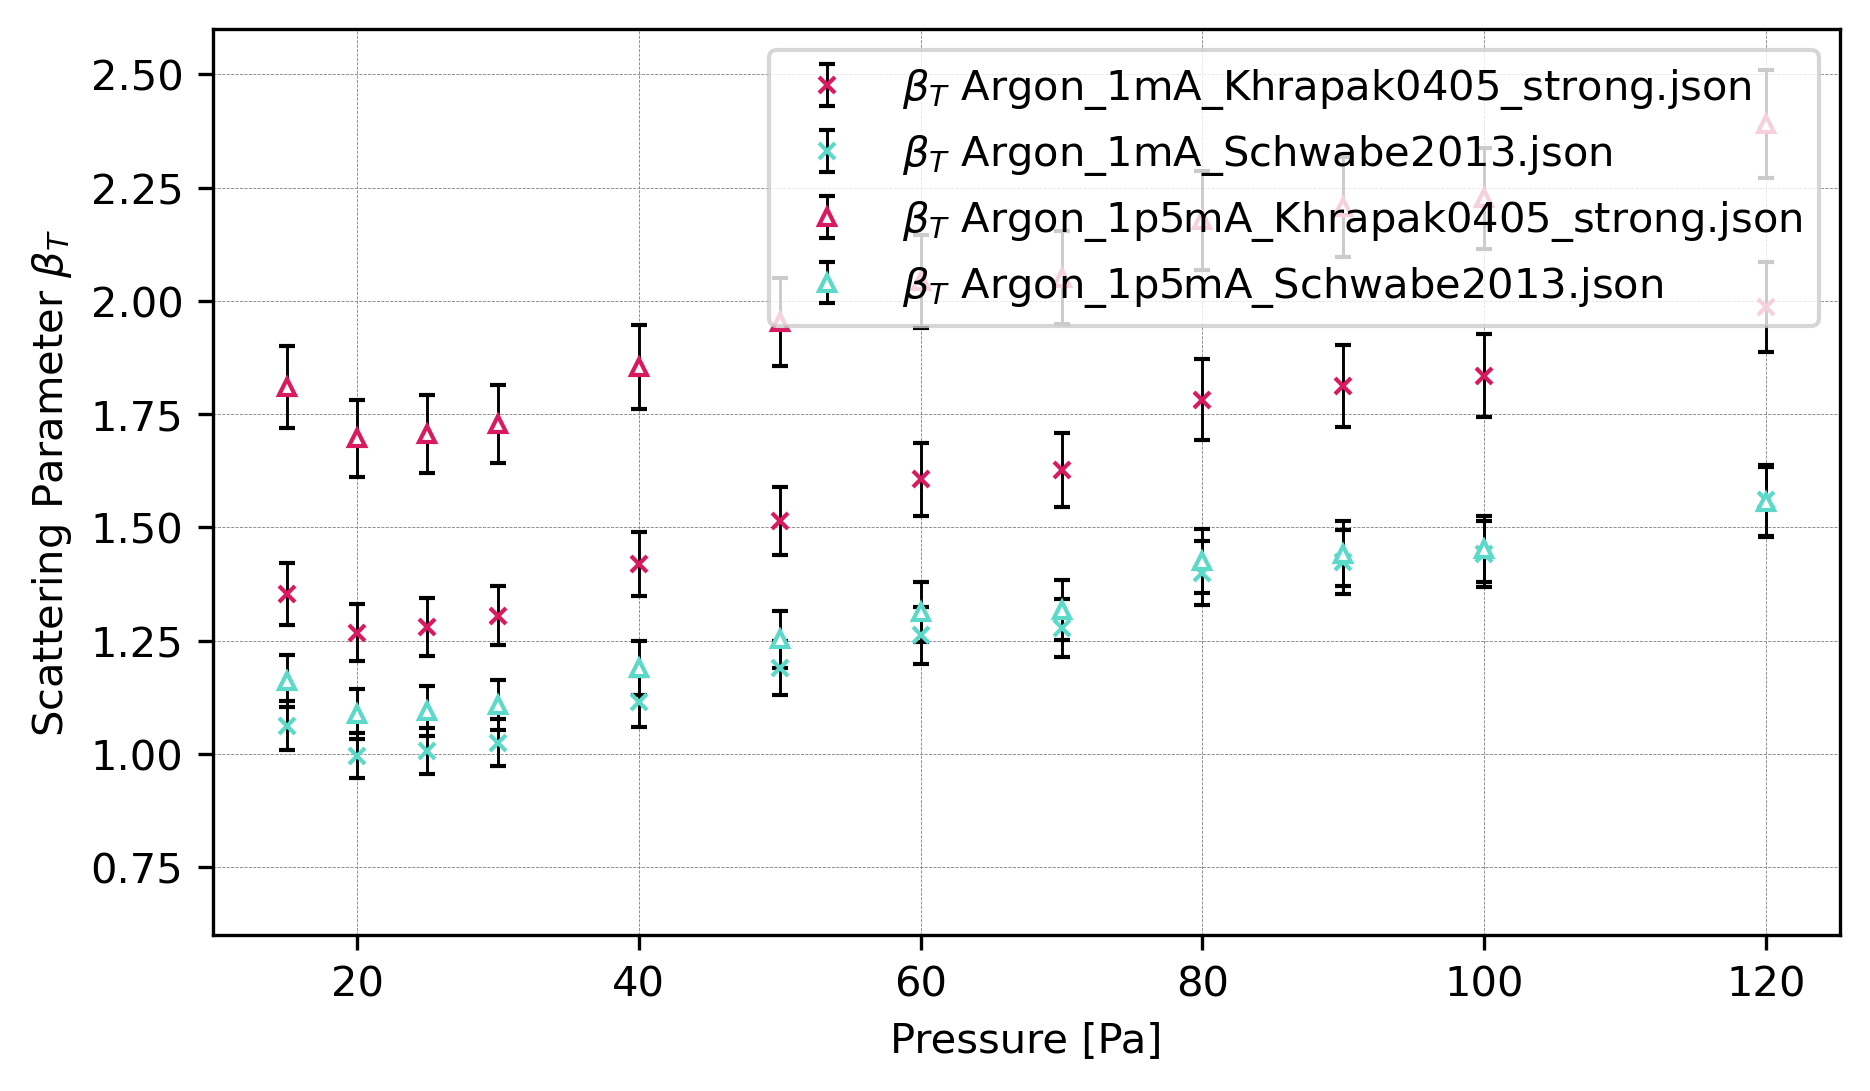
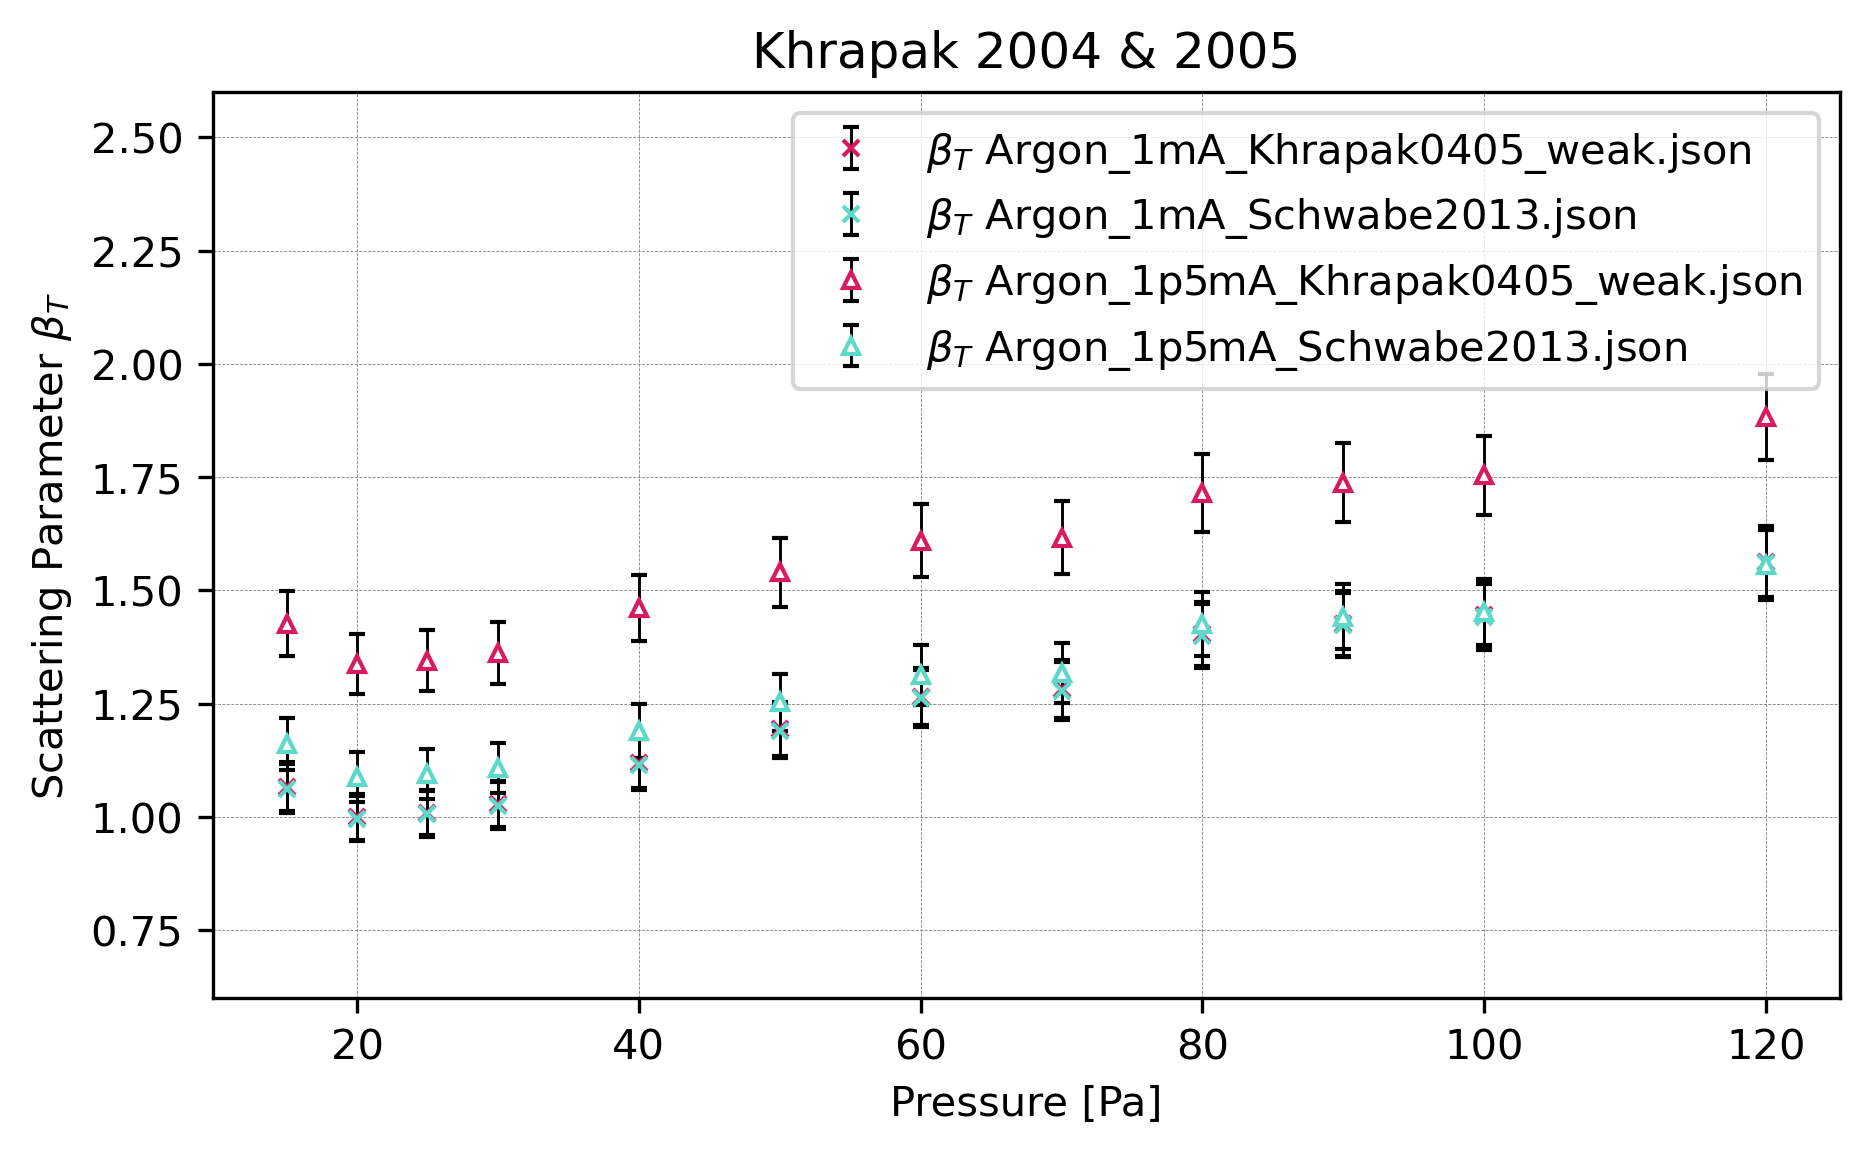
upload

diff --git a/data_eval.py b/data_eval.py
@@ -212,7 +212,10 @@ plt.xlim(0, 130)
 plt.ylim(0, 1)
 plt.show()
 #%%
-# Load JSON files
+
+# =============================================================================
+# Discharge Parameters
+# =============================================================================
 
 file_paths = [
     "json_files/theory/Argon_1mA_Khrapak0405_strong.json",
@@ -260,43 +263,58 @@ argon_df = {
 }
 
 # Plotting T_e, n_e0, and E_0 in separate subplots
-fig, axes = plt.subplots(3, 1, figsize=(12, 15), dpi=300)
+fig, axes = plt.subplots(3, 1, figsize=(9, 12), dpi=600)
 
 # Titles and y-labels for each subplot
 parameters = ["n_e0", "T_e", "E_0"]
-titles = [r"$n_{e0}$ vs Pressure", r"$T_e$ vs Pressure", r"$E_0$ vs Pressure"]
-y_labels = [r"$n_{e0}$ ($\mathrm{m^{-3}}$)", r"$T_e$ (eV)", r"$E_0$ ($\mathrm{V/m}$)"]
+titles = [r"$n_{e}$ vs Pressure", r"$T_e$ vs Pressure", r"$E_0$ vs Pressure"]
+y_labels = [r"$n_{e}$ ($\cdot 10 ^{15} \, \mathrm{m^{-3}}$)", r"$T_e$ (eV)", r"$E_0$ ($\mathrm{V/m}$)"]
 
 # Plot each parameter in a separate subplot
 for i, param in enumerate(parameters):
     ax = axes[i]
     for dataset_name, dataset in parsed_data_correct.items():
         for polarity, params in dataset.items():
-            linestyle = "solid" if polarity == "pos" else "dashed"
-            color = "orange" if "Argon" in dataset_name and param == "n_e0" else None  # Highlight Argon n_e0
-            ax.plot(
-                pressures, 
-                params[param], 
-                linestyle=linestyle, 
-                label=f"{param} ({polarity}, {dataset_name})",
-                color=color
-            )
+            if polarity == "pos":
+                linestyle = "solid"  # Since we know polarity is "pos", this doesn't need an if-check
+                # Initialize color based on conditions
+                if "Argon" in dataset_name and dataset_name.split('_')[1] == "1mA":
+                    color = "#D81B60"
+                elif "Argon" in dataset_name and dataset_name.split('_')[1] == "1p5mA":
+                    color = "#5DD9C9"
+                elif "Neon" in dataset_name and dataset_name.split('_')[1] == "1mA":
+                    color = "#D81B60"
+                    linestyle = '--'
+                elif "Neon" in dataset_name and dataset_name.split('_')[1] == "1p5mA":
+                    color = "#5DD9C9"
+                    linestyle = '--'
+                else:
+                    color = "black"  # Default color if no conditions are met
+                
+                ax.plot(
+                    pressures, 
+                    params[param], 
+                    linestyle=linestyle, 
+                    label=f"${param}$ ({dataset_name.split('_')[0]}, {dataset_name.split('_')[1]})",
+                    color=color
+                )
+
     # Add experimental data
     if param == "T_e":
-        ax.scatter(argon_df["P_Pa"], argon_df["1mA_T"], color="blue", marker="o", label="1mA Experimental T_e")
-        ax.scatter(argon_df["P_Pa"], argon_df["2mA_T"], color="blue", marker="x", label="2mA Experimental T_e")
+        ax.scatter(argon_df["P_Pa"], argon_df["1mA_T"], color="#1E88E5", marker="^", label="1mA Experimental $T_e$")
+        ax.scatter(argon_df["P_Pa"], argon_df["2mA_T"], color="#1E88E5", marker="x", label="2mA Experimental $T_e$")
     elif param == "n_e0":
-        ax.scatter(argon_df["P_Pa"], np.array(argon_df["1mA_n"])*(10)**14, color="green", marker="o", label="1mA Experimental n_e0")
-        ax.scatter(argon_df["P_Pa"], np.array(argon_df["2mA_n"])*(10)**14, color="green", marker="x", label="2mA Experimental n_e0")
+        ax.scatter(argon_df["P_Pa"], np.array(argon_df["1mA_n"])*(10)**14, color="#1E88E5", marker="^", label="1mA Experimental $n_e$")
+        ax.scatter(argon_df["P_Pa"], np.array(argon_df["2mA_n"])*(10)**14, color="#1E88E5", marker="x", label="2mA Experimental $n_e$")
     elif param == "E_0":
-        ax.scatter(argon_df["P_Pa"], np.array(argon_df["1mA_E"])*(-100), color="red", marker="o", label="1mA Experimental E_0")
-        ax.scatter(argon_df["P_Pa"], np.array(argon_df["2mA_E"])*(-100), color="red", marker="x", label="2mA Experimental E_0")
+        ax.scatter(argon_df["P_Pa"], np.array(argon_df["1mA_E"])*(-100), color="#1E88E5", marker="^", label="1mA Experimental $E_0$")
+        ax.scatter(argon_df["P_Pa"], np.array(argon_df["2mA_E"])*(-100), color="#1E88E5", marker="x", label="2mA Experimental $E_0$")
 
-    ax.set_title(titles[i])
+    #ax.set_title(titles[i])
     ax.set_xlabel("Pressure (Pa)")
     ax.set_ylabel(y_labels[i])
     ax.legend(loc="upper right", bbox_to_anchor=(1, 1))
-    ax.grid(True)
+    ax.grid(True, color="grey", linestyle="--", linewidth=0.2)
 
 plt.tight_layout()
 plt.show()
@@ -304,24 +322,33 @@ plt.show()
 # Plotting scattering parameter \beta_T
 plt.figure(figsize=(7, 4), dpi=300)
 #path = json_folder.split('/')[0] + "/theory/"
-# Get the list of file paths, excluding .DS_Store
+# Corrected path building and filtering logic
+
+gas_type = "Neon"
+
 file_paths = [
-    os.path.join(json_folder.split('/')[0] + "/theory/", f)
-    for f in os.listdir(json_folder.split('/')[0] + "/theory/")
-    if f != '._.DS_Store' #and f.split('_')[0] == "Neon"
+    os.path.join(json_folder.split('/')[0] + "/theory/", filename)
+    for filename in os.listdir(json_folder.split('/')[0] + "/theory/")
+    if not filename.startswith('._')  # Excludes macOS system files
+       and not filename.endswith("strong.json")  # Excludes files ending with 'strong.json'
+       and filename.startswith(gas_type)  # Includes only files that start with 'Neon'
 ]
-color_list = ["#D81B60", "#5DD9C9", "#FFC107", "#D81B60", "#5DD9C9", "#FFC107","#D81B60", "#5DD9C9", "#FFC107", "#D81B60", "#5DD9C9", "#FFC107"]
-#marker_list = ["s", "^", "d", "o", "s", "^", "d", "o","s", "^", "d", "o", "s", "^", "d", "o"]
+
+print(file_paths)
+
+#color_list = ["#D81B60", "#5DD9C9", "#FFC107", "#D81B60", "#5DD9C9", "#FFC107","#D81B60", "#5DD9C9", "#FFC107", "#D81B60", "#5DD9C9", "#FFC107"]
+color_list = ["#D81B60", "#5DD9C9", "#D81B60", "#5DD9C9", "#5DD9C9", "#FFC107","#D81B60", "#5DD9C9", "#FFC107", "#D81B60", "#5DD9C9", "#FFC107"]
+marker_list = ["s", "^", "d", "o", "s", "^", "d", "o","s", "^", "d", "o", "s", "^", "d", "o"]
 i=0
 for file in file_paths:
     json_file = open(file, 'r')
     json_data = json.load(json_file)
-    if file.split('/')[2].split('_')[0] == "Argon":
-        plt.errorbar(pressures, np.array(json_data["pos"]["beta_T"]), yerr=np.array(json_data["pos"]["beta_T"])*0.05, fmt="^", color=color_list[i], linewidth=.7, markersize=4, capsize=2, ecolor='black', mfc='w', label=r'$\beta_T$ ' + file.split('/')[2].split('_')[0].split('.')[0])
+    if file.split('/')[2].split('_')[0] == gas_type and file.split('/')[2].split('_')[1] == '1p5mA':
+        plt.errorbar(pressures, np.array(json_data["pos"]["beta_T"]), yerr=np.array(json_data["pos"]["beta_T"])*0.05, fmt="^", color=color_list[i], linewidth=.7, markersize=4, capsize=2, ecolor='black', mfc='w', label=r'$\beta_T$ ' + file.split('/')[2])
         #plt.errorbar(pressures, np.array(json_data["neg"]["beta_T"]), yerr=np.array(json_data["neg"]["beta_T"])*0.05, fmt=marker_list[i], color=color_list[i], label=r'$\beta_T$ ' + file.split('/')[2].split('_')[0].split('.')[0] + ' pos & neg', linewidth=.7, markersize=4, capsize=2, ecolor='black', mfc='w')
         i+=1
-    else:
-        plt.errorbar(pressures, np.array(json_data["pos"]["beta_T"]), yerr=np.array(json_data["pos"]["beta_T"])*0.05, fmt="x", color=color_list[i], linewidth=.7, markersize=4, capsize=2, ecolor='black', label=r'$\beta_T$ ' + file.split('/')[2].split('_')[0].split('.')[0])#, mfc='w')
+    elif file.split('/')[2].split('_')[0] == gas_type and file.split('/')[2].split('_')[1] == '1mA':
+        plt.errorbar(pressures, np.array(json_data["pos"]["beta_T"]), yerr=np.array(json_data["pos"]["beta_T"])*0.05, fmt="x", color=color_list[i], linewidth=.7, markersize=4, capsize=2, ecolor='black', label=r'$\beta_T$ ' + file.split('/')[2])#, mfc='w')
         #plt.errorbar(pressures, np.array(json_data["neg"]["beta_T"]), yerr=np.array(json_data["neg"]["beta_T"])*0.05, fmt=marker_list[i], color=color_list[i], label=r'$\beta_T$ ' + file.split('/')[2].split('_')[0].split('.')[0] + ' pos & neg', linewidth=.7, markersize=4, capsize=2, ecolor='black', mfc='w')
         i+=1
 
@@ -330,7 +357,8 @@ plt.xlabel('Pressure [Pa]')
 plt.ylabel(r'Scattering Parameter $\beta_T$')
 plt.grid(color='gray', linestyle='--', linewidth=0.2)
 plt.legend(loc='upper right')
-#plt.title("Khrapak 2004 & 2005")
+plt.title("Khrapak 2004 & 2005")
+plt.ylim( .6 , 2.6)
 plt.show()
 #%%
 
@@ -341,7 +369,7 @@ json_data_textbook_fi = json.load(textbook_fi)
 fig, ax = plt.subplots(dpi=400)
 
 split = "gas"
-gas_type = "Argon"
+gas_type = "Neon"
 
 file_paths = [
     os.path.join(json_folder.split('/')[0] + "/theory/", f)
@@ -393,7 +421,7 @@ handles, labels = plt.gca().get_legend_handles_labels()
 # Display legend with only the first three entries
 plt.legend(handles, label_list, loc='upper right')
 
-plt.title("Model Comparison " + gas_type)
+#plt.title("Model Comparison " + gas_type)
 
 # Displaying the plot
 plt.show()

diff --git a/ion_drag_force.py b/ion_drag_force.py
@@ -92,7 +92,7 @@ model = "Khrapak0405"
 # Theory == 2 refers to the strongly coupling regime between ions and dust particles 
 # Variable Parameters
 gas_type = "Neon" #or "Neon"
-I = 1.5  # mA
+I = 1  # mA
 polarity = "pos" #pos or neg
 
 if gas_type == "Argon" and I == 1.5 and polarity == "neg":
@@ -288,8 +288,14 @@ else:
     M = A * np.abs((1 + np.abs((B * EN)**C))**(-1/(2*C))) * EN
     v_ti2 = np.sqrt(k * T_i / m_argon)
     u_i = M*v_ti2
-    
-beta_T2 = np.divide(Z_d * e**2, (v_ti**2)*m_neon) / (4 * np.pi * epsilon_0 * debye_D)
+
+
+#beta_T2 = np.divide(Z_d * e**2, (v_ti**2)*m_neon) / (4 * np.pi * epsilon_0 * debye_D)
+if gas_type == "Neon":
+    beta_T2 = Z_d * e**2 / (2 * np.pi * epsilon_0 * m_neon * v_ti**2 * debye_D)
+else:
+    beta_T2 = Z_d * e**2 / (2 * np.pi * epsilon_0 * m_argon * v_ti**2 * debye_D)
+
 
 fig, ax = plt.subplots(dpi=150)
 plt.plot(p, (integrated_f), color='red')
@@ -436,7 +442,7 @@ if gas_type == "Neon":
         "T_e": T_e.tolist(),
         "n_e0": n_e0.tolist(),
         "z": z,
-        "beta_T": beta_T.tolist(),
+        "beta_T": beta_T2.tolist(),
         "textbook_graph_F_x": x.tolist(),
         "textbook_graph_F_y": y.tolist(),
         "textbook_var": t_var.tolist()
@@ -456,7 +462,7 @@ else:
         "T_e": T_e_argon.tolist(),
         "n_e0": n_e0_argon.tolist(),
         "z": z,
-        "beta_T": beta_T.tolist(),
+        "beta_T": beta_T2.tolist(),
         "textbook_graph_F_x": x.tolist(),
         "textbook_graph_F_y": y.tolist(),
         "textbook_var": t_var.tolist()

diff --git a/id-force_schwabe2013.py b/id-force_schwabe2013.py
@@ -90,7 +90,7 @@ def e_field(x, I):
 # Model:
 model = "Schwabe2013"
 # Variable Parameters
-gas_type = "Argon" #or "Neon"
+gas_type = "Neon" #or "Neon"
 I = 1.5  # mA
 polarity = "pos" #pos or neg
 charge_depletion = 1
@@ -268,8 +268,8 @@ else:
     roh_0_nue = Z_d * e**2 / (2 * np.pi * epsilon_0 * m_argon * nue**2)
 
 '''    Scattering Parameter, Khrapak DOI: 10.1103/PhysRevE.66.046414     '''
-beta_T = roh_0/debye_Di
-#beta_T = roh_0_nue/debye_nue
+#beta_T = roh_0/debye_Di
+beta_T = roh_0_nue/debye_nue
 #beta_T2 = np.divide(Z_d * e**2, (v_ti**2)*m_argon) / (4 * np.pi * epsilon_0 * debye_D)
 
 coulomb_logarithm = np.log((roh_0_nue + debye_nue)/(roh_0_nue + a))
